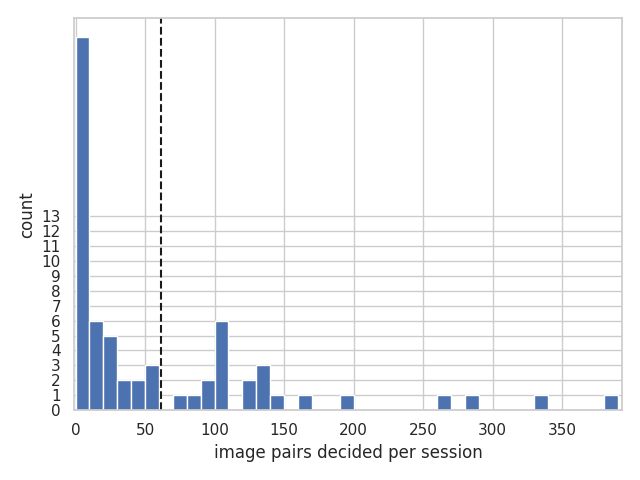
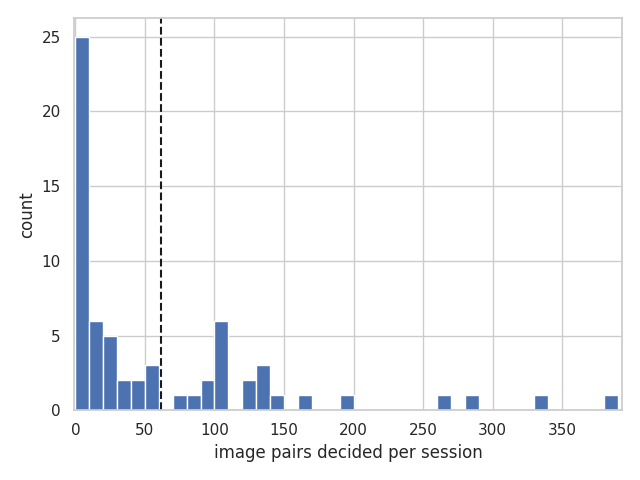
got a memory leak somewhere and accidentally removed cv2 dependency

diff --git a/model/datasets.py b/model/datasets.py
@@ -1,3 +1,4 @@
+import copy
 import math
 from pathlib import Path
 from typing import Dict, List
@@ -82,8 +83,8 @@ class Pexels(torch.utils.data.Dataset):
     def __len__(self) -> int:
         return len(self.edits)
 
-    def __getitem__(self, idx) -> Dict[str, str]:
-        item = self.edits[idx].copy()
+    def __getitem__(self, idx) -> Dict[str, torch.Tensor]:
+        item = copy.deepcopy(self.edits[idx])
 
         item["img1"] = self.transforms(Image.open(item["img1"]).convert("RGB"))
         item["img2"] = self.transforms(Image.open(item["img2"]).convert("RGB"))

diff --git a/survey/analyser.py b/survey/analyser.py
@@ -472,7 +472,7 @@ print(usercount.nlargest(5, "count"))
 plt.hist(usercount.values, bins=range(0, int(usercount.max()) + 11, 10))
 # sns.distplot(usercount, bins=range(0, int(usercount.max()) + 1, 10), hist_kws={"align": "left"})
 plt.gca().axvline(x=float(usercount.mean()), linestyle="--", color="k", label="average")
-plt.yticks(range(0, 14))
+# plt.yticks(range(0, 14))
 plt.xlim(left=-1, right=int(usercount.max()) + 11)
 plt.ylim(bottom=0)
 plt.xlabel("image pairs decided per session")
